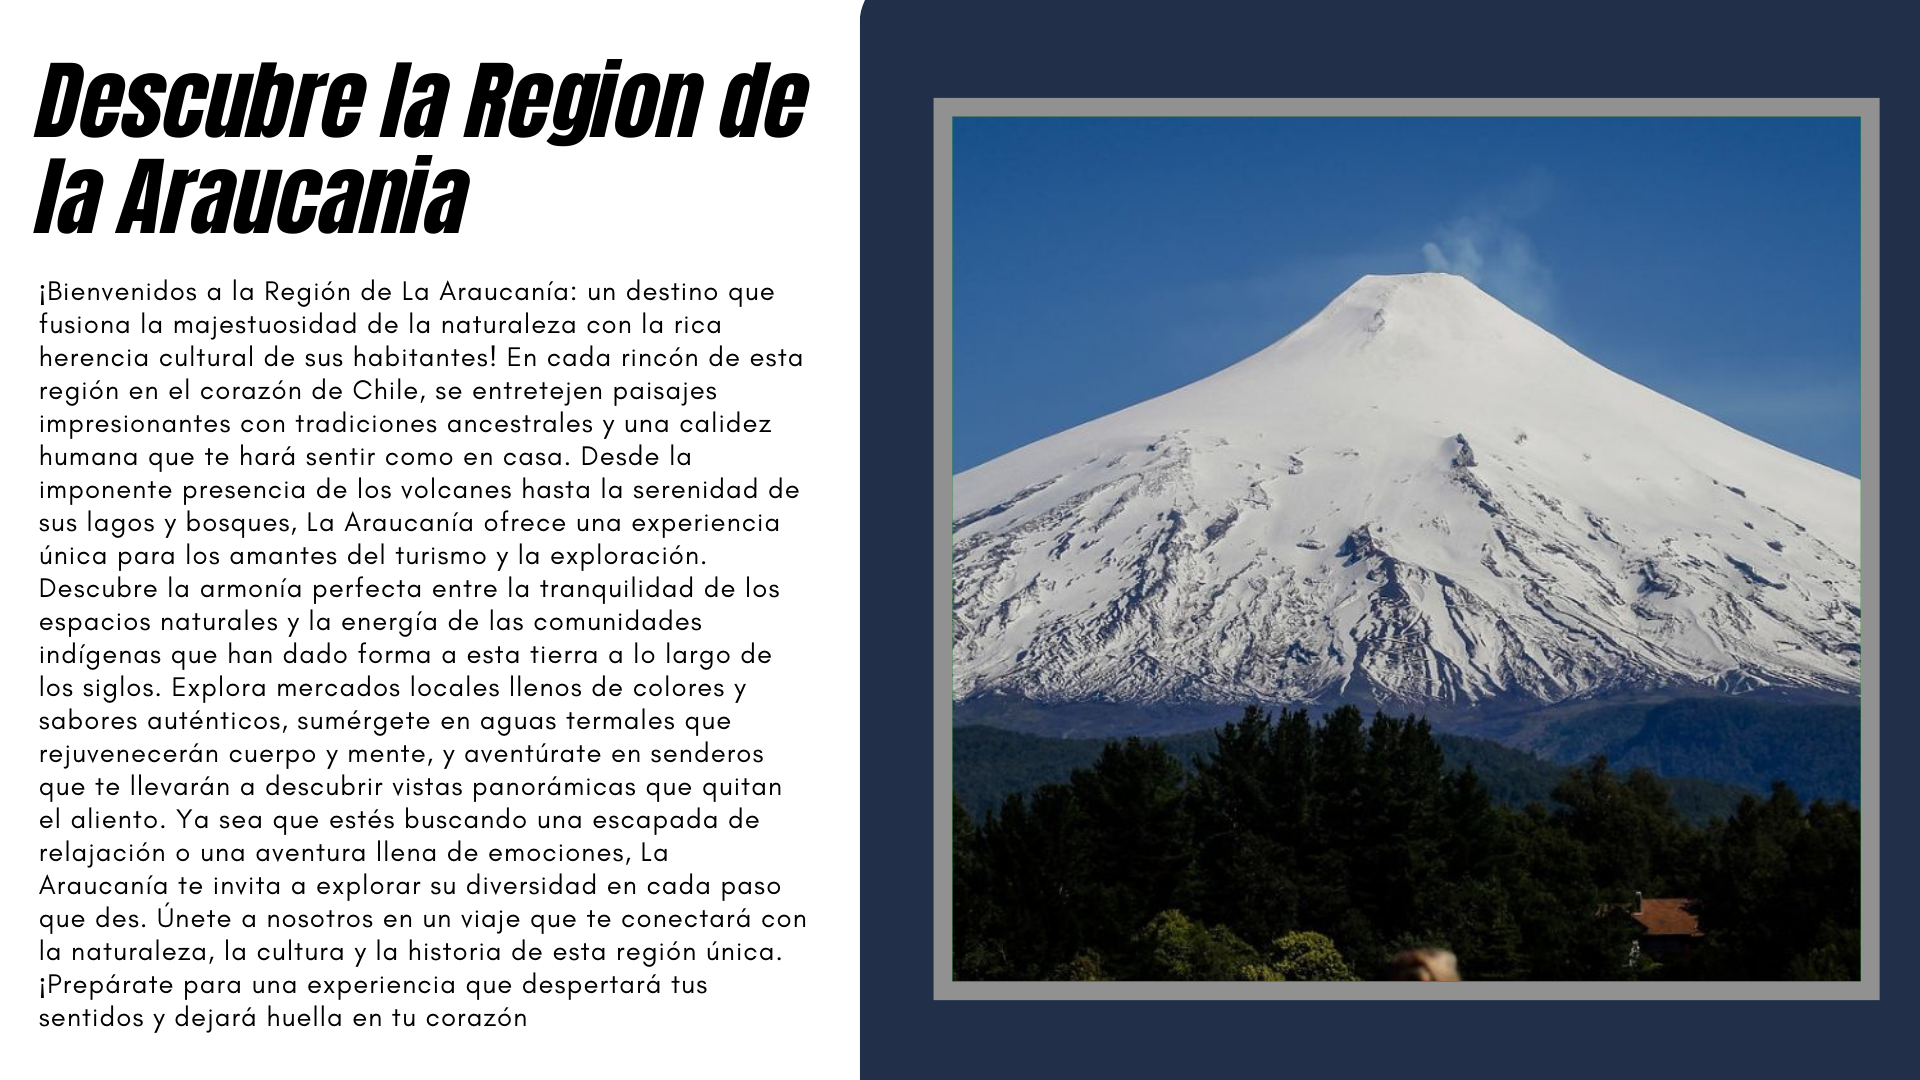
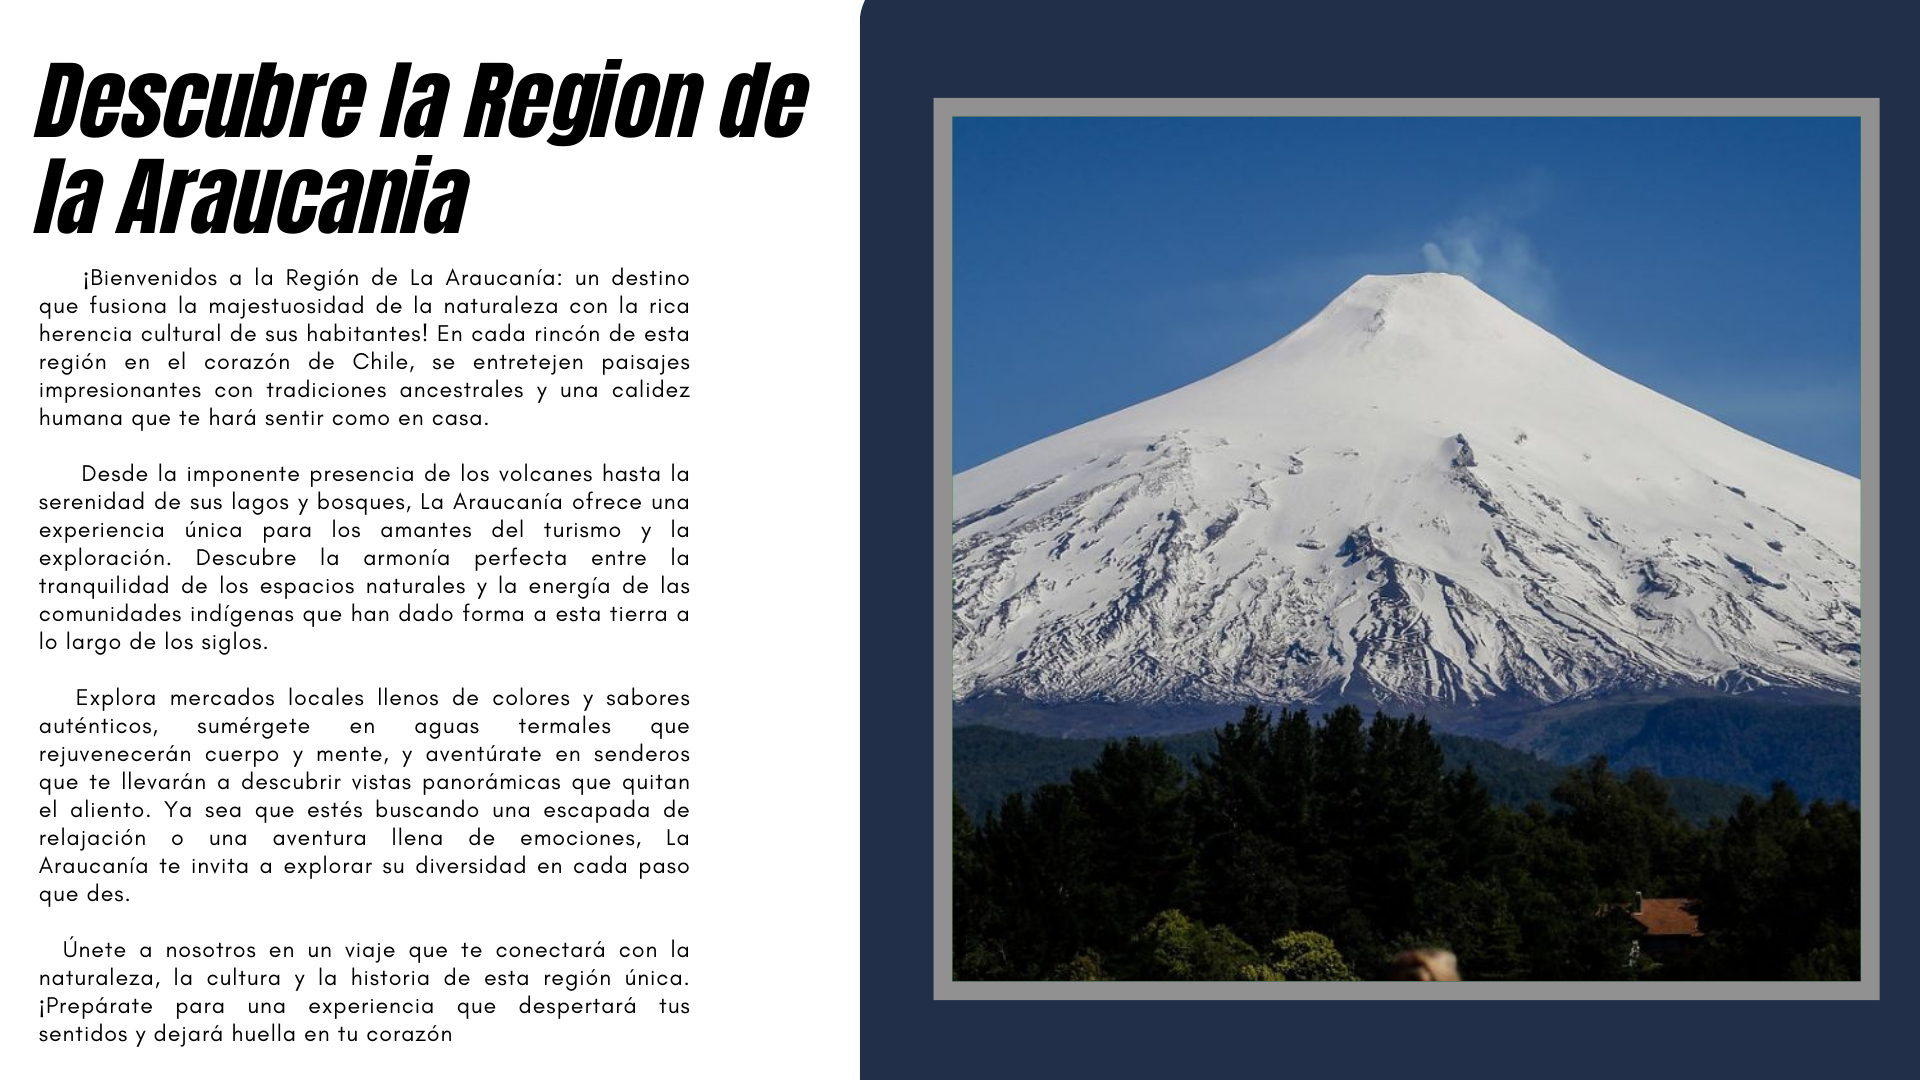
Modificacion Main Y Pitrufquen 24/09/23

Changed region(s): [[0.0, 0.2444, 0.4062, 0.9778]]

diff --git a/Html/Encanto Araucano.html b/Html/Encanto Araucano.html
@@ -15,7 +15,7 @@
         </div>
         <nav>
             <ul>
-                <li><a href="#">Home</a></li>
+                <li><a href="Encanto Araucano.html">Home</a></li>
                 <li><a href="#">Sobre Nosotros</a></li>
                 <li><a href="contacto.html">Contactanos </a></li>
             </ul>
@@ -24,22 +24,38 @@
             <input type="text" placeholder="Search...">
             <a href="#">
                 <i class="fas fa-search"></i>
-            </a>>
+            </a>
             <img src="https://cdn-icons-png.flaticon.com/512/25/25313.png" alt="lupa">
        </div>    
     </header>   
-    <div class="slider-container">
-        <div class="slider position"></div>
+    <iframe src="../SliderCom/SliderMain.html" width="100%" height="800"></iframe>
+    
+    <div class="descubre">
+        <img src="../Imágenes/Descrubre la Region de la Araucania.png" alt="descubra">
     </div>
-   <h1 class="lines-effect">
-    <img class="titulos" src="../Imágenes/titulo.png" alt="titulo">
-    <p>¡Bienvenidos a la Región de La Araucanía: un destino que fusiona la majestuosidad de la naturaleza con la rica herencia cultural de sus habitantes! En cada rincón de esta región en el corazón de Chile, se entretejen paisajes impresionantes con tradiciones ancestrales y una calidez humana que te hará sentir como en casa. Desde la imponente presencia de los volcanes hasta la serenidad de sus lagos y bosques, La Araucanía ofrece una experiencia única para los amantes del turismo y la exploración.
-        Descubre la armonía perfecta entre la tranquilidad de los espacios naturales y la energía de las comunidades indígenas que han dado forma a esta tierra a lo largo de los siglos. Explora mercados locales llenos de colores y sabores auténticos, sumérgete en aguas termales que rejuvenecerán cuerpo y mente, y aventúrate en senderos que te llevarán a descubrir vistas panorámicas que quitan el aliento.  
-        Ya sea que estés buscando una escapada de relajación o una aventura llena de emociones, La Araucanía te invita a explorar su diversidad en cada paso que des. Únete a nosotros en un viaje que te conectará con la naturaleza, la cultura y la historia de esta región única. ¡Prepárate para una experiencia que despertará tus sentidos y dejará huella en tu corazón!</p>
+
+    <div class="GastronomiaAraucania">
+        <img src="../Imágenes/GastronomiaAraucania.jpg" alt="Comida">
+    </div>
+
+    <div class="visita">
+        <img src="../Imágenes/Visita.png" alt="">
+    </div>
+
+    <div class="esperanos">
+        <img src="../Imágenes/Teesperamos.png" alt="">
+    </div>
+
+    <div class="video-container">
+        <iframe width="560" height="315" src="https://www.youtube.com/embed/AlhznqqpaAk?si=Ce3hLK3o12EYhH7o" title="YouTube video player" frameborder="0" allow="accelerometer; autoplay; clipboard-write; encrypted-media; gyroscope; picture-in-picture; web-share" allowfullscreen></iframe>
+    </div>
+    
+
 
     <div class="señalmap">
         <img src="../Imágenes/dondequieresir.png" alt="titulo">
     </div>
+
   
     <div class="container">
         <svg

diff --git a/SliderCom/StyleSliderMain.css b/SliderCom/StyleSliderMain.css
@@ -1,0 +1,119 @@
+@import url('https://fonts.googleapis.com/css2?family=Raleway:wght@400;500;600&display=swap');
+*{
+  margin: 0;
+  padding: 0;
+  box-sizing:border-box;
+}
+
+body{
+font-family: "Raleway",sans-serif;
+}
+
+.container{
+  height:100vh;
+  width:100vw;
+  overflow:hidden;
+}
+
+.image-slider{
+  position: relative;
+  width:100%;
+  height:100%;
+  display: flex;
+}
+
+.image-slider .slide{
+  position: relative;
+  width:100%;
+  height:100%;
+  object-fit:cover;
+  transition: all 2s ease-out;
+}
+
+/*Overlay*/
+.overlay{
+  height:100vh;
+  width: 100vw;
+  background: rgb(228,198,119);
+  background: linear-gradient(99deg, rgba(228,198,119,0.22172619047619047) 0%, rgba(0,0,0,0.49343487394957986) 100%);
+  position: absolute;
+  top:0;
+  left:0;
+  
+}
+
+/* manuel slider controls*/
+.slider-controls{
+  z-index:9;
+  position: absolute;
+  width:95%;
+  top:50%;
+  left:50%;
+  transform:translate(-50%,-50%);
+  display: flex;
+  align-items: center;
+  justify-content: space-between;
+  
+}
+.slider-controls svg{
+  height:30px;
+  width:30px;
+  opacity:0.4;
+  transition : all 300ms ease;
+  cursor: pointer;
+}
+.slider-controls svg:hover{
+  opacity:1;
+}
+.slider-controls svg path{
+  fill:#EFEFEF;
+}
+
+/*Slider Indicators*/
+.slider-indicators{
+  z-index:9;
+  display: flex;
+  align-items: center;
+  justify-content: center;
+  gap: 15px;
+  position: absolute;
+  bottom:20px;
+  left:50%;
+  transform:translate(-50%,0);
+}
+.slider-indicators .indicator{
+  height:5px;
+  width:30px;
+  background-color: #ACACAC;
+  border-radius:3px;
+  transition : all 300ms ease;
+}
+
+.active-indicator{
+  background-color: #FEFEFE !important;
+}
+
+
+.texto{
+    z-index:9;
+    align-items: center;
+    justify-content: center;
+    gap: 15px;
+    position: absolute;
+    top:10px;
+    left:50%;
+    transform:translate(-50%,0);
+  }
+
+
+.slogan{
+    z-index:9;
+    align-items: center;
+    justify-content: center;
+    gap: 15px;
+    position: absolute;
+    bottom:290px;
+    left:50%;
+    transform:translate(-50%,0);
+  }
+

diff --git a/SliderCom/SliderMain.html b/SliderCom/SliderMain.html
@@ -1,0 +1,48 @@
+<!DOCTYPE html>
+<html lang="en">
+<head>
+    <meta charset="UTF-8">
+    <meta name="viewport" content="width=device-width, initial-scale=1.0">
+    <title>SliderMain</title>
+    <link rel="stylesheet" href="../SliderCom/StyleSliderMain.css">
+    <script src="../SliderCom/SliderMainJS.js" defer></script>
+</head>
+<body>
+    
+    <section class="container">
+        
+      <div class="image-slider">
+      <img src="../Imágenes/Mainpage2.jpg" alt="" class="slide">
+      <img src="../Imágenes/Mainpage1.jpg" alt="" class="slide">
+      <img src="../Imágenes/Mainpage3.jpg" alt="" class="slide">
+      <img src="../Imágenes/Mainpage4.jpg" alt="" class="slide">
+      </div>
+      
+      <div class="slider-controls">
+        <svg 
+             id="prevControl" xmlns="http://www.w3.org/2000/svg" width="24" height="24" viewBox="0 0 24 24"><path d="M0 12c0 6.627 5.373 12 12 12s12-5.373 12-12-5.373-12-12-12-12 5.373-12 12zm7.58 0l5.988-5.995 1.414 1.416-4.574 4.579 4.574 4.59-1.414 1.416-5.988-6.006z"/></svg>
+        <svg id="nextControl" xmlns="http://www.w3.org/2000/svg" width="24" height="24" viewBox="0 0 24 24"><path d="M12 0c-6.627 0-12 5.373-12 12s5.373 12 12 12 12-5.373 12-12-5.373-12-12-12zm-1.568 18.005l-1.414-1.415 4.574-4.59-4.574-4.579 1.414-1.416 5.988 5.995-5.988 6.005z"/></svg>
+      </div>
+
+      <div class="texto">
+        <img src="../Imágenes/titulo.png" alt="">
+      </div>
+
+      <div class="slogan">
+        <img src="../Imágenes/sloganpng.png" alt="">
+      </div>
+      
+      <div class="slider-indicators">
+        <div class="indicator"></div>
+        <div class="indicator"></div>
+        <div class="indicator"></div>
+        <div class="indicator"></div>
+      </div>
+      
+      
+      <div class="overlay"></div>
+    </section>
+
+    
+</body>
+</html>

diff --git a/SliderCom/SliderMainJS.js b/SliderCom/SliderMainJS.js
@@ -1,0 +1,71 @@
+//Image Slider Container
+const imageSlider = document.querySelector(".image-slider");
+
+//sliderImages
+const sliderImages = document.querySelectorAll(".slide");
+
+//SLider controls 
+const next = document.querySelector("#nextControl");
+const prev = document.querySelector("#prevControl");
+
+// Slider Indicators
+const sliderIndicators = document.querySelectorAll(".indicator");
+
+
+let currSlide = 0
+
+//make first indicator active
+sliderIndicators[currSlide].classList.add("active-indicator");
+
+
+//manuel slide controllers
+next.addEventListener("click",()=>{
+  setIndicatorInActive();
+  if(currSlide > sliderImages.length-2){
+    currSlide = 0;
+  }else{
+    currSlide++;
+  }
+  
+   imageSlider.style.transition = "all 1s ease";
+  imageSlider.style.transform = "translateX("+ (-100*currSlide) +"%)";
+  setIndicatorActive();
+});
+
+prev.addEventListener("click",()=>{
+  setIndicatorInActive();
+  if(currSlide < 1){
+    currSlide = 3;
+  }else{
+    currSlide--;
+  }
+  
+  imageSlider.style.transition = "all 1s ease";
+  imageSlider.style.transform = "translateX("+ (-100*currSlide) +"%)";
+  setIndicatorActive();
+});
+
+
+
+
+//automatic slider controls
+setInterval(()=>{
+  //changing Slide after 5 sec
+setIndicatorInActive();   
+  if(currSlide > sliderImages.length-2){
+    currSlide = 0;
+  }else{
+    currSlide++;
+  }
+  imageSlider.style.transition = "all 1s ease";
+  imageSlider.style.transform = "translateX("+ (-100*currSlide) +"%)";
+  setIndicatorActive();
+},5000);
+
+
+//functions to make indicator active and inactive
+const setIndicatorActive = () =>{
+sliderIndicators[currSlide].classList.add("active-indicator");
+}
+const setIndicatorInActive = () =>{   sliderIndicators[currSlide].classList.remove("active-indicator");
+}

diff --git a/Css/style.css b/Css/style.css
@@ -337,3 +337,44 @@ div#slider figure {
 95% { left: -300%; }
 100% { left: -400%; }
 }
+
+.descubre img {
+    width: 95%; 
+    margin: 30px;/* Cambia el valor según el tamaño que desees */
+    height: auto; /* Esto mantiene la proporción original de la imagen */
+}
+
+.GastronomiaAraucania img {
+    width: 95%; 
+    margin: -35px;
+    height: auto; 
+}
+
+.visita img {
+    width: 95%; 
+    margin: -35px;
+    height: auto; 
+}
+
+.esperanos img {
+    width: 95%; 
+    margin: 30px;
+    height: auto; 
+}
+
+.video-container {
+    width: 50%; /* Ancho del contenedor al 100% del espacio disponible */
+    height: 450px; /* Alto deseado para el contenedor del video */
+    background: #f7f3f3; /* Color de fondo (puedes cambiarlo a un valor de color específico) */
+    display: flex;
+    margin-left: 25%;
+    justify-content: center; /* Centrar horizontalmente el contenido */
+    align-items: center; /* Centrar verticalmente el contenido */
+    position: relative; /* Añadir posición relativa para permitir superponer el iframe */
+    border: solid 12px #022b68;
+}
+
+.video-container iframe {
+    max-width: 180%; /* Asegura que el video no se desborde del contenedor */
+    max-height: 180%; /* Asegura que el video no se desborde del contenedor */
+}

diff --git a/SliderCom/Galery.html b/SliderCom/Galery.html
@@ -1,0 +1,15 @@
+<!DOCTYPE html>
+<html lang="en">
+<head>
+    <meta charset="UTF-8">
+    <meta name="viewport" content="width=device-width, initial-scale=1.0">
+    <title>Document</title>
+    <link rel="stylesheet" href="../SliderCom/StyleGalery.css">
+    <script src="../SliderCom/GaleryJS.js" defer></script>
+</head>
+<body>
+    
+    <div class="frame">
+        <iframe width="560" height="315" src="https://www.youtube.com/embed/AlhznqqpaAk?si=Ce3hLK3o12EYhH7o" title="YouTube video player" frameborder="0" allow="accelerometer; autoplay; clipboard-write; encrypted-media; gyroscope; picture-in-picture; web-share" allowfullscreen></iframe>
+</body>
+</html>
